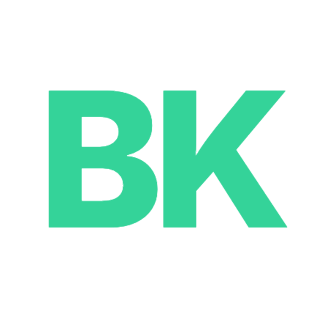
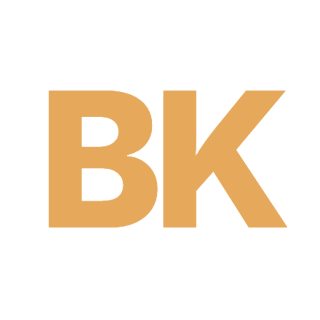
Recolor: emerald -> deep navy + amber/gold + cream palette
Replace the generic emerald-on-black scheme with a navy/amber/cream
palette (ColorHunt popular) that better fits an AI & Security profile and
avoids the overused dev-portfolio look. Update CSS tokens (dark+light),
hero overlays, button text, in-progress tag (->teal), OG generator, and
regenerate favicon + OG thumbnail in the new palette.

Changed region(s): [[0.125, 0.2812, 0.9062, 0.7188]]

diff --git a/css/style.css b/css/style.css
@@ -5,25 +5,25 @@
 
 :root {
     /* dark (default) */
-    --bg: #0a0b0d;
-    --bg-soft: #101216;
-    --surface: #13161b;
-    --surface-2: #171b22;
-    --border: #222831;
-    --border-soft: #1a1f27;
+    --bg: #0a1426;
+    --bg-soft: #0e1a30;
+    --surface: #122038;
+    --surface-2: #182742;
+    --border: #243450;
+    --border-soft: #1a2840;
 
-    --text: #e8edf2;
-    --text-dim: #9aa5b1;
-    --text-mute: #5f6b78;
+    --text: #ece7db;
+    --text-dim: #a7afc1;
+    --text-mute: #707b90;
 
-    --primary: #34d399;
-    --primary-dim: #10b981;
-    --primary-strong: #6ee7b7;
-    --primary-glow: rgba(52, 211, 153, .15);
-    --primary-border: rgba(52, 211, 153, .25);
+    --primary: #e6a95c;
+    --primary-dim: #c98a3e;
+    --primary-strong: #f4c078;
+    --primary-glow: rgba(230, 169, 92, .16);
+    --primary-border: rgba(230, 169, 92, .30);
 
-    --term-bg: #0d0f13;
-    --term-bar: #171b22;
+    --term-bg: #0b1322;
+    --term-bar: #16223a;
 
     --shadow-card: 0 20px 50px rgba(0, 0, 0, .4);
     --shadow-soft: 0 24px 60px rgba(0, 0, 0, .45);
@@ -39,26 +39,26 @@
 }
 
 body.light {
-    --bg: #f6f7f9;
-    --bg-soft: #eef0f3;
+    --bg: #f4f1e8;
+    --bg-soft: #ece8dc;
     --surface: #ffffff;
-    --surface-2: #f1f3f6;
-    --border: #e2e6ec;
-    --border-soft: #e9edf2;
+    --surface-2: #f1eee4;
+    --border: #e6e0d2;
+    --border-soft: #ece7da;
 
-    --text: #14181d;
-    --text-dim: #4a5560;
-    --text-mute: #8b96a3;
+    --text: #0a1426;
+    --text-dim: #4a5468;
+    --text-mute: #8a93a5;
 
-    --primary: #059669;
-    --primary-dim: #10b981;
-    --primary-strong: #047857;
-    --primary-glow: rgba(5, 150, 105, .1);
-    --primary-border: rgba(5, 150, 105, .25);
+    --primary: #b0701f;
+    --primary-dim: #c98a3e;
+    --primary-strong: #8f540f;
+    --primary-glow: rgba(176, 112, 31, .12);
+    --primary-border: rgba(176, 112, 31, .28);
 
     /* terminal stays dark in both themes for authenticity */
-    --term-bg: #0d0f13;
-    --term-bar: #171b22;
+    --term-bg: #0b1322;
+    --term-bar: #16223a;
 
     --shadow-card: 0 16px 40px rgba(20, 30, 50, .1);
     --shadow-soft: 0 20px 50px rgba(20, 30, 50, .12);
@@ -79,7 +79,7 @@ body {
     transition: background .3s var(--ease), color .3s var(--ease);
 }
 
-::selection { background: var(--primary); color: #04110b; }
+::selection { background: var(--primary); color: #1a1206; }
 
 a { color: inherit; text-decoration: none; }
 img { max-width: 100%; display: block; }
@@ -92,7 +92,7 @@ img { max-width: 100%; display: block; }
     position: fixed; inset: 0; z-index: -2; pointer-events: none;
     background:
         radial-gradient(ellipse 52% 46% at 80% 16%, var(--primary-glow), transparent 62%),
-        linear-gradient(100deg, rgba(10,11,13,.96) 0%, rgba(10,11,13,.9) 46%, rgba(10,11,13,.6) 76%, rgba(10,11,13,.82) 100%),
+        linear-gradient(100deg, rgba(10,20,38,.96) 0%, rgba(10,20,38,.9) 46%, rgba(10,20,38,.6) 76%, rgba(10,20,38,.82) 100%),
         url("../assets/hero-bg.jpg") center 22% / cover no-repeat,
         var(--bg);
 }
@@ -105,7 +105,7 @@ body.light .hero-bg {
     background:
         linear-gradient(100deg, rgba(0,0,0,.93) 0%, rgba(0,0,0,.86) 46%, rgba(0,0,0,.55) 76%, rgba(0,0,0,.74) 100%),
         url("../assets/hero-bg.jpg") center 22% / cover no-repeat,
-        #0a0b0d;
+        #0a1426;
     filter: invert(1);
 }
 /* aurora would invert to magenta in light mode — hide it there */
@@ -236,7 +236,7 @@ body.light .theme-toggle .fa-moon { display: none; }
     display: inline-flex; align-items: center; gap: 9px; border: 1px solid transparent;
     transition: all .2s var(--ease);
 }
-.btn-primary { background: var(--primary); color: #04110b; }
+.btn-primary { background: var(--primary); color: #1a1206; }
 .btn-primary:hover { background: var(--primary-strong); transform: translateY(-2px); box-shadow: 0 10px 30px var(--primary-glow); }
 .btn-secondary { background: transparent; color: var(--text); border-color: var(--border); }
 .btn-secondary:hover { border-color: var(--primary); color: var(--primary); }
@@ -329,7 +329,7 @@ body.light .theme-toggle .fa-moon { display: none; }
     padding: 9px 18px; border-radius: 999px; cursor: pointer; transition: all .2s var(--ease);
 }
 .filter-btn:hover { border-color: var(--primary-border); color: var(--text); }
-.filter-btn.active { background: var(--primary); color: #04110b; border-color: var(--primary); font-weight: 600; }
+.filter-btn.active { background: var(--primary); color: #1a1206; border-color: var(--primary); font-weight: 600; }
 
 .projects-grid { display: grid; grid-template-columns: repeat(2, 1fr); gap: 20px; }
 .project-card {
@@ -355,7 +355,7 @@ body.light .theme-toggle .fa-moon { display: none; }
 }
 .project-tag.completed { color: var(--primary); background: var(--primary-glow); border-color: var(--primary-border); }
 .project-tag.mvp { color: #60a5fa; background: rgba(96, 165, 250, .12); border-color: rgba(96, 165, 250, .28); }
-.project-tag.in-progress { color: #fbbf24; background: rgba(251, 191, 36, .12); border-color: rgba(251, 191, 36, .28); }
+.project-tag.in-progress { color: #4fb6ad; background: rgba(79, 182, 173, .12); border-color: rgba(79, 182, 173, .30); }
 .project-tag.planning { color: #a78bfa; background: rgba(167, 139, 250, .12); border-color: rgba(167, 139, 250, .28); }
 .project-subtitle { font-family: var(--mono); font-size: .78rem; color: var(--primary); margin-bottom: 14px; }
 .project-description { color: var(--text-dim); font-size: .94rem; margin-bottom: 18px; }
@@ -448,7 +448,7 @@ body.light .theme-toggle .fa-moon { display: none; }
 /* ===== Back to top (created in JS) ===== */
 #backToTop {
     position: fixed; bottom: 28px; right: 28px; width: 46px; height: 46px; border-radius: 50%;
-    background: var(--primary); color: #04110b; border: none; cursor: pointer; display: none;
+    background: var(--primary); color: #1a1206; border: none; cursor: pointer; display: none;
     align-items: center; justify-content: center; font-size: 1rem; z-index: 99;
     box-shadow: 0 8px 24px var(--primary-glow); transition: transform .2s var(--ease), background .2s;
 }

diff --git a/og-capture.html b/og-capture.html
@@ -6,7 +6,7 @@
     <link href="https://fonts.googleapis.com/css2?family=Inter:wght@400;500;600;700;800&family=JetBrains+Mono:wght@400;500;700&display=swap" rel="stylesheet">
     <style>
         * { margin: 0; padding: 0; box-sizing: border-box; }
-        :root { --primary: #34d399; --primary-dim: #10b981; }
+        :root { --primary: #e6a95c; --primary-dim: #c98a3e; }
 
         .og-card {
             width: 1200px;
@@ -20,10 +20,10 @@
             font-family: 'Inter', 'Pretendard Variable', sans-serif;
             color: #e8edf2;
             background:
-                radial-gradient(ellipse 60% 65% at 82% 18%, rgba(52, 211, 153, .20), transparent 60%),
-                linear-gradient(100deg, rgba(10, 11, 13, .97) 0%, rgba(10, 11, 13, .88) 48%, rgba(10, 11, 13, .6) 78%, rgba(10, 11, 13, .8) 100%),
+                radial-gradient(ellipse 60% 65% at 82% 18%, rgba(230, 169, 92, .20), transparent 60%),
+                linear-gradient(100deg, rgba(10, 20, 38, .97) 0%, rgba(10, 20, 38, .88) 48%, rgba(10, 20, 38, .6) 78%, rgba(10, 20, 38, .8) 100%),
                 url('assets/hero-bg.jpg') center 22% / cover no-repeat,
-                #0a0b0d;
+                #0a1426;
         }
 
         .grid {
@@ -52,8 +52,8 @@
         .badge {
             display: inline-flex; align-items: center; gap: 10px;
             padding: 9px 18px; margin-bottom: 26px;
-            background: rgba(52, 211, 153, .14);
-            border: 1px solid rgba(52, 211, 153, .3);
+            background: rgba(230, 169, 92, .14);
+            border: 1px solid rgba(230, 169, 92, .3);
             border-radius: 100px;
             color: var(--primary);
             font-family: 'JetBrains Mono', monospace; font-size: 18px;